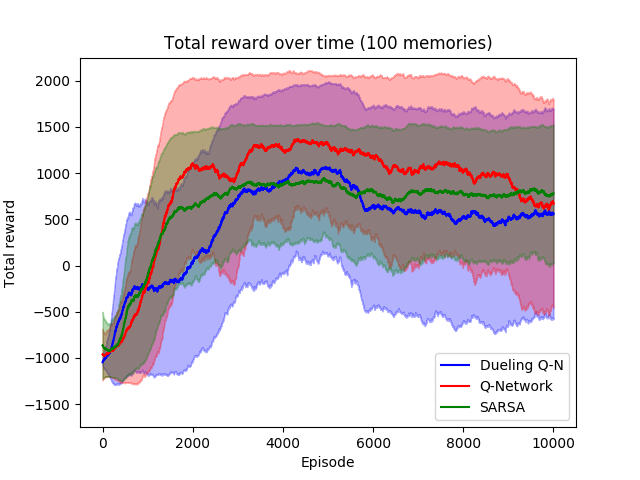
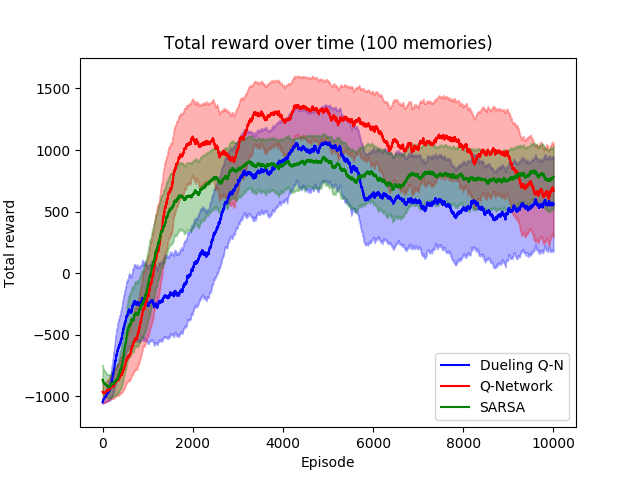
Switched hardcoded plots from std_dev to std_err and updated plots

diff --git a/analyze.py b/analyze.py
@@ -239,12 +239,12 @@ def main():
         # Define how logfiles should be grouped
         all_filenames = get_log_filenames()
         first_files, second_files, third_files = ([] for i in range(3))
+        #DDQN=27 - DQN=26 - SARSA=28
         for filename in all_filenames:
-            if "DDQN" in filename and len(filename) == (27+4):
+            if "SARSA" in filename and len(filename) == (28+0):
                 first_files.append(filename)
                 continue
-            if "DQN" in filename and len(filename) == (26+4) \
-                and not "DDQN" in filename:
+            if "SARSA" in filename and len(filename) == (28+3):
                 second_files.append(filename)
                 continue
             if "SARSA" in filename and len(filename) == (28+4):
@@ -262,12 +262,12 @@ def main():
             exit()
 
         ## Calculate all the stuffs
-        first_all, second_all, third_all = ([] for i in range(3)) 
-        first_avg, second_avg, third_avg = ([] for i in range(3))
-        first_std, second_std, third_std = ([] for i in range(3))
+        first_all, second_all, third_all, \
+        first_avg, second_avg, third_avg, \
+        first_std, second_std, third_std = ([] for i in range(9))
         # Load all 10 runs and append them to their respective lists
-        for first_filename, second_filename, third_filename in zip(\
-            first_files, second_files, third_files):
+        for first_filename, second_filename, third_filename in \
+            zip(first_files, second_files, third_files):
             first_file = load_file(first_filename)
             second_file = load_file(second_filename)
             third_file = load_file(third_filename)
@@ -278,37 +278,41 @@ def main():
         first_avg = np.average(np.array(first_all), axis=0)
         second_avg = np.average(np.array(second_all), axis=0)
         third_avg = np.average(np.array(third_all), axis=0)
-        # Calculate the stddevs given the 10 runs
-        first_std = np.std(first_all, axis=0)
-        second_std = np.std(second_all, axis=0)
-        third_std = np.std(third_all, axis=0)
+        # # Calculate the stddevs given the 10 runs
+        # first_std = np.std(first_all, axis=0)
+        # second_std = np.std(second_all, axis=0)
+        # third_std = np.std(third_all, axis=0)
+        # Calculate the stderr given the 10 runs
+        from scipy import stats
+        first_std = stats.sem(first_all)
+        second_std = stats.sem(second_all)
+        third_std = stats.sem(third_all)
 
         # Start the plot
         folder_name = "HARDCODED"
-        std_factor = 1.0
         area_alpha = 0.3
         first_clr, second_clr, third_clr = ["blue", "red", "green"]
-        plot_start("Total reward over time (1000 memories)", "Total reward", "Episode")
+        plot_start("Total reward over time (SARSA)", "Total reward", "Episode")
         # Populate plot
-        plt.plot(calc_smooth(first_avg), label="Dueling Q-N", color=first_clr)
+        plt.plot(calc_smooth(first_avg), label="0 memories", color=first_clr)
         plt.fill_between(range(len(first_avg)), \
-            calc_smooth(np.add(first_avg, std_factor * first_std)), \
-            calc_smooth(np.add(first_avg, std_factor * -first_std)), \
+            calc_smooth(np.add(first_avg, first_std)), \
+            calc_smooth(np.add(first_avg, -first_std)), \
             alpha=area_alpha, color=first_clr)
-        plt.plot(calc_smooth(second_avg), label="Q-Network", color=second_clr)
+        plt.plot(calc_smooth(second_avg), label="100 memories", color=second_clr)
         plt.fill_between(range(len(second_avg)), \
-            calc_smooth(np.add(second_avg, std_factor * second_std)), \
-            calc_smooth(np.add(second_avg, std_factor * -second_std)), \
+            calc_smooth(np.add(second_avg, second_std)), \
+            calc_smooth(np.add(second_avg, -second_std)), \
             alpha=area_alpha, color=second_clr)
-        plt.plot(calc_smooth(third_avg), label="SARSA", color=third_clr)
+        plt.plot(calc_smooth(third_avg), label="1000 memories", color=third_clr)
         plt.fill_between(range(len(third_avg)), \
-            calc_smooth(np.add(third_avg, std_factor * third_std)), \
-            calc_smooth(np.add(third_avg, std_factor * -third_std)), \
+            calc_smooth(np.add(third_avg, third_std)), \
+            calc_smooth(np.add(third_avg, -third_std)), \
             alpha=area_alpha, color=third_clr)
         # Finish plot
-        plot_setyaxis(-1750, 2250)
+        plot_setyaxis(-1250, 1750)
         verify_folder(plots_folder + folder_name)
-        save_filename = plots_folder + folder_name + '/total_rewards_1000m.png'
+        save_filename = plots_folder + folder_name + '/total_rewards_SARSA.png'
         plot_finish(save_filename)
 
 if __name__ == "__main__":
